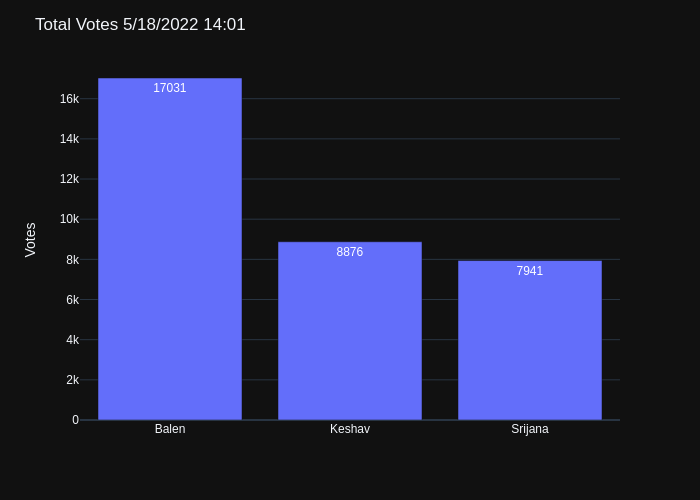
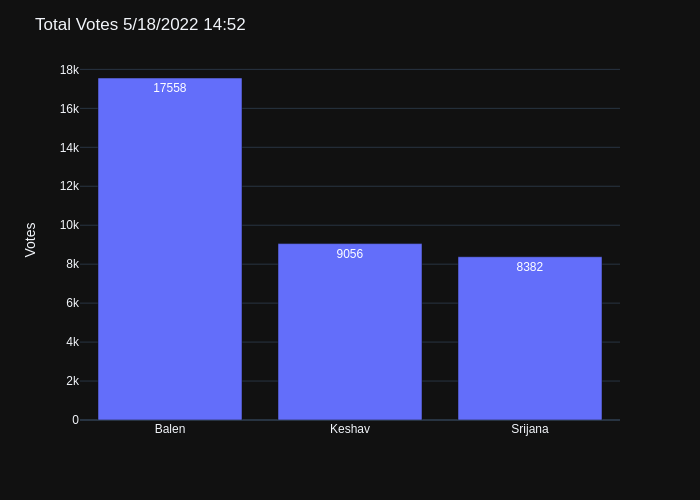
Add data

diff --git a/README.md b/README.md
@@ -1,4 +1,4 @@
-## Last Update: 5/18/2022 14:01
+## Last Update: 5/18/2022 14:52
 
 ## Balen's Lead against Keshav Sthapit and Srijana Singh
 ![ScreenShot](final.jpg)
